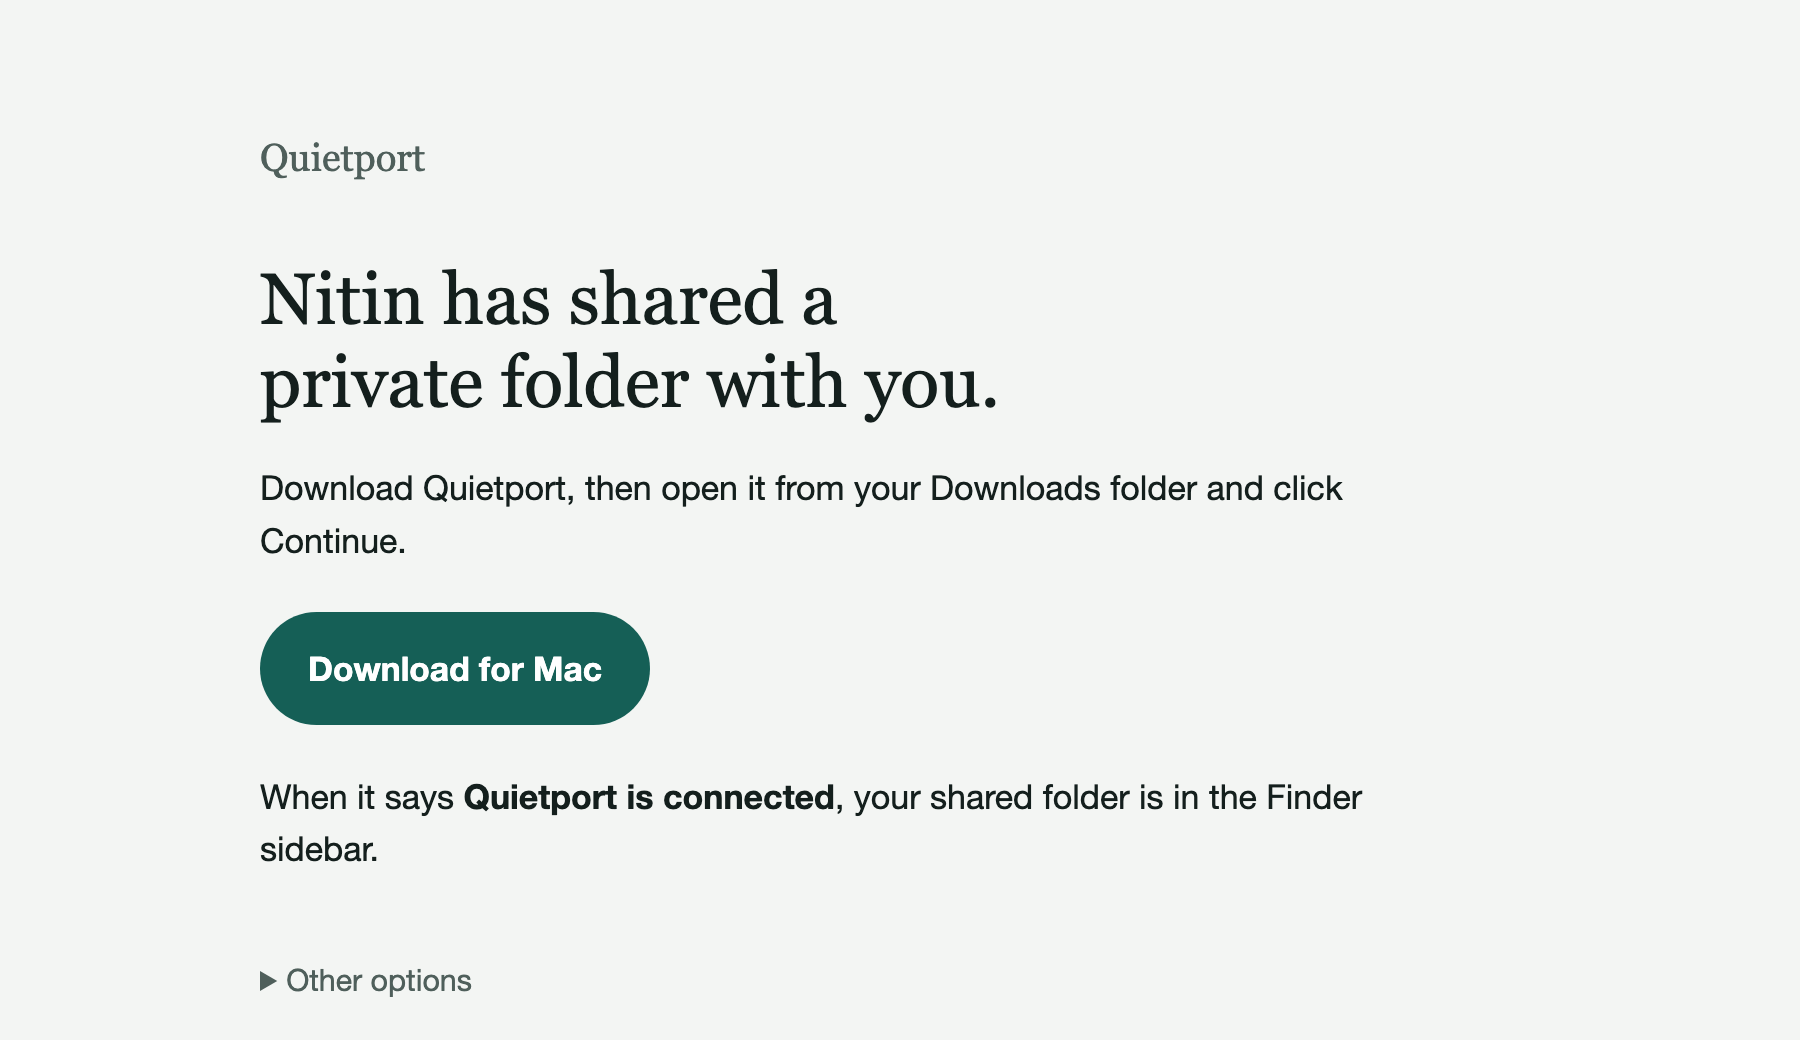
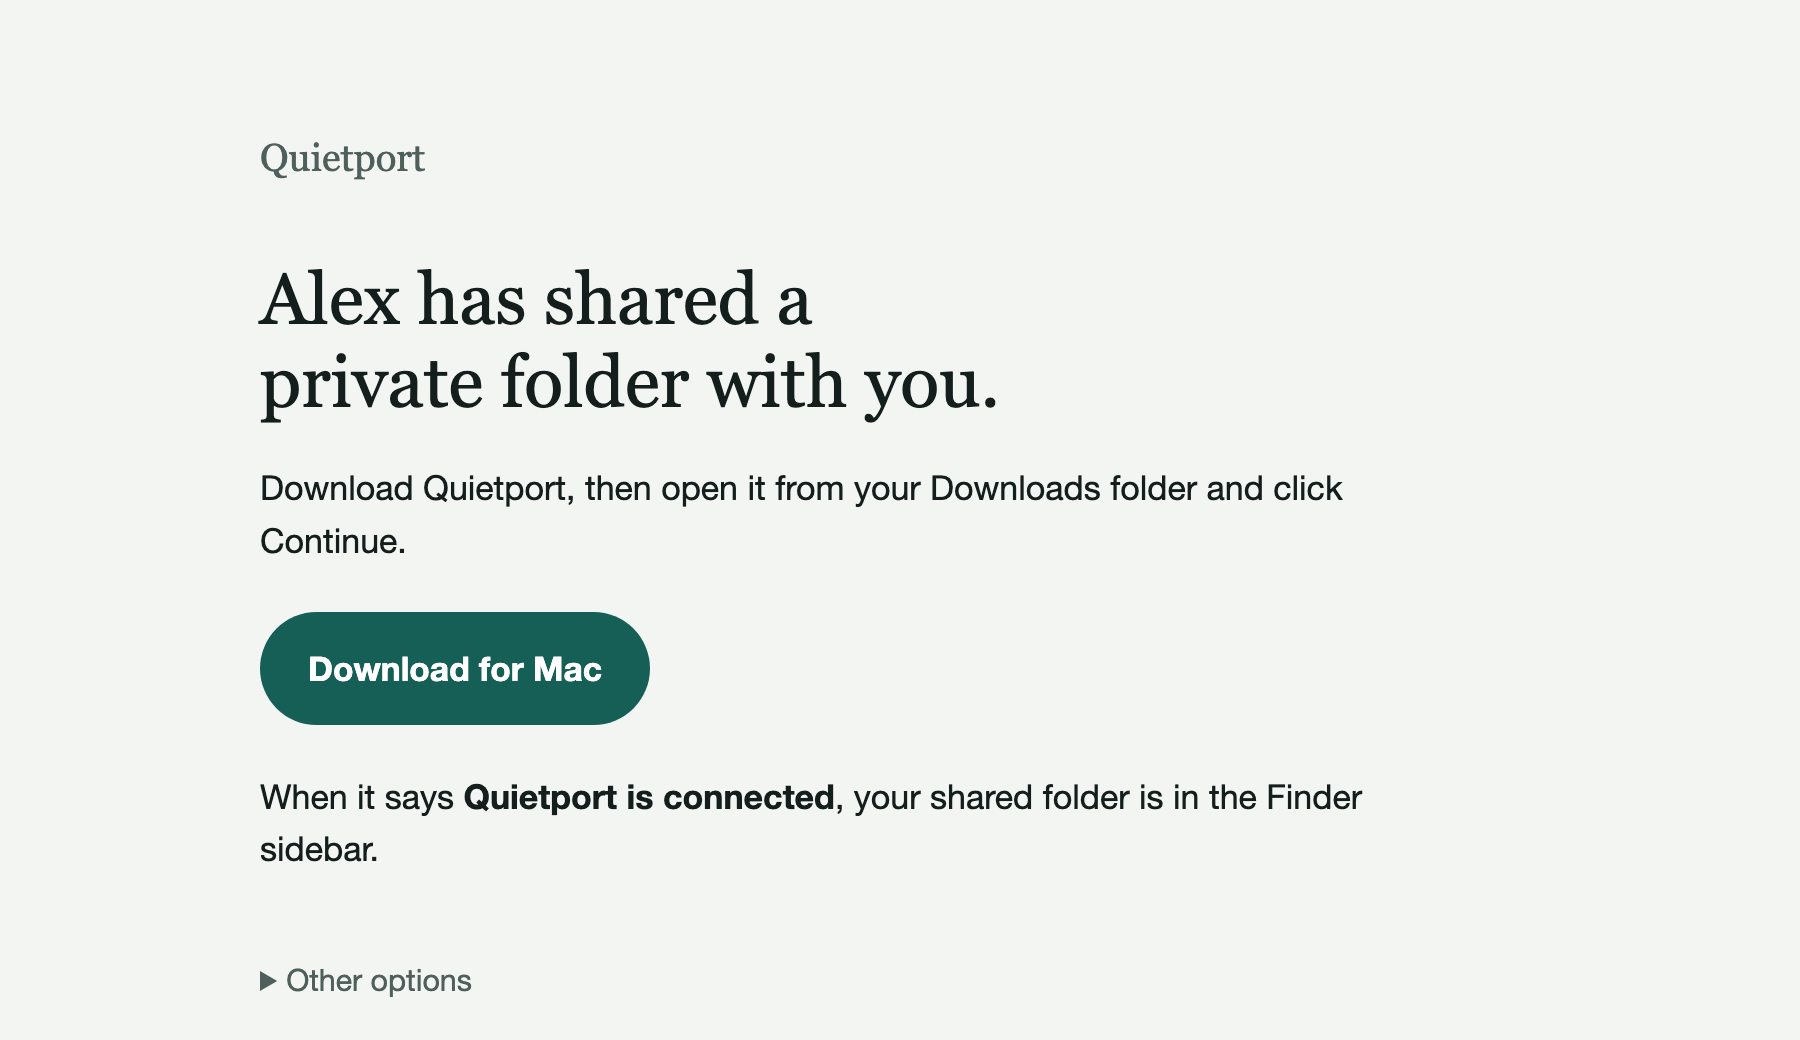
site: generic operator name in the example, link bar above the screenshot, dialog timing, pill placement
Claude-Session: https://claude.ai/code/session_012djiBqZ5WtPw4SnFMJU3a2

Changed region(s): [[0.1244, 0.2462, 0.4667, 0.3385]]

diff --git a/cmd/qp-hub/web/site/index.html b/cmd/qp-hub/web/site/index.html
@@ -61,9 +61,9 @@ p{margin:0 0 1rem}
 .step p{color:var(--ink-2);max-width:26rem}
 .shot{background:var(--card);border-radius:20px;box-shadow:var(--shadow);overflow:hidden;position:relative}
 .shot img{display:block;width:100%;height:auto}
-.chip{position:absolute;right:4%;top:6%;background:var(--ink);color:var(--bg);font-family:var(--mono);font-size:.78rem;padding:.55rem .8rem;border-radius:10px;box-shadow:var(--shadow);animation:float 4s ease-in-out infinite;max-width:70%;overflow:hidden;text-overflow:ellipsis;white-space:nowrap}
+.chip{display:block;background:var(--ink);color:var(--bg);font-family:var(--mono);font-size:.78rem;padding:.65rem .9rem;overflow:hidden;text-overflow:ellipsis;white-space:nowrap;animation:pulse 4s ease-in-out infinite}
 .chip b{color:var(--accent);font-weight:500}
-@keyframes float{0%,100%{transform:translateY(0)}50%{transform:translateY(-6px)}}
+@keyframes pulse{0%,100%{opacity:1}50%{opacity:.72}}
 
 /* installer dialog animation: ask (0-35%) -> progress (35-60%) -> connected (60-100%) on a 9s loop */
 .dlg-stage{position:relative;background:linear-gradient(160deg,#dfe6f3,#eef1f7);border-radius:20px;box-shadow:var(--shadow);min-height:15rem;display:flex;align-items:center;justify-content:center;padding:1.5rem;overflow:hidden}
@@ -81,19 +81,19 @@ p{margin:0 0 1rem}
 .dlg.d2{animation:d2 9s ease-in-out infinite}
 .dlg-prog{position:absolute;bottom:2rem;width:min(16rem,70%);height:6px;border-radius:3px;background:rgba(15,22,38,.12);overflow:hidden;opacity:0;animation:progShow 9s linear infinite}
 .dlg-prog i{display:block;height:100%;width:0;background:var(--accent);animation:progFill 9s linear infinite}
-@keyframes d1{0%{opacity:0;transform:translateY(8px) scale(.98)}5%,30%{opacity:1;transform:none}36%,100%{opacity:0;transform:translateY(-6px) scale(.98)}}
-@keyframes d2{0%,60%{opacity:0;transform:translateY(8px) scale(.98)}66%,94%{opacity:1;transform:none}100%{opacity:0}}
-@keyframes progShow{0%,36%{opacity:0}38%,58%{opacity:1}60%,100%{opacity:0}}
-@keyframes progFill{0%,36%{width:0}58%{width:100%}100%{width:100%}}
+@keyframes d1{0%,4%{opacity:0;transform:translateY(8px) scale(.98)}9%,32%{opacity:1;transform:none}37%,100%{opacity:0;transform:translateY(-6px) scale(.98)}}
+@keyframes d2{0%,62%{opacity:0;transform:translateY(8px) scale(.98)}67%,92%{opacity:1;transform:none}96%,100%{opacity:0;transform:translateY(-6px) scale(.98)}}
+@keyframes progShow{0%,38%{opacity:0}41%,58%{opacity:1}61%,100%{opacity:0}}
+@keyframes progFill{0%,40%{width:0}58%{width:100%}100%{width:100%}}
 
 /* finder */
 .finder{background:#fff;border-radius:20px;box-shadow:var(--shadow);overflow:hidden}
 .finder img{display:block;width:100%;height:auto}
-.finder .pane{position:relative;height:13rem;background:#fff;padding:1.4rem 1.6rem;display:flex;gap:2rem;align-items:flex-start}
+.finder .pane{position:relative;height:14rem;background:#fff;padding:1.4rem 1.6rem 3.6rem;display:flex;gap:2rem;align-items:flex-start;flex-wrap:wrap}
 .folder{width:5.4rem;text-align:center;font-size:.85rem;color:#1d1d1f;opacity:0;transform:translateY(10px) scale(.9);animation:pop .6s cubic-bezier(.2,.8,.2,1) forwards}
 .folder svg{width:4.2rem;height:auto;display:block;margin:0 auto .35rem}
 .folder:nth-child(1){animation-delay:.6s}.folder:nth-child(2){animation-delay:1.5s}
-.finder .pin{position:absolute;right:1.4rem;top:1.3rem;background:var(--ok-soft);color:var(--ok);font-size:.8rem;font-weight:600;padding:.45rem .7rem;border-radius:999px;opacity:0;animation:appear .5s ease 2.4s forwards}
+.finder .pin{position:absolute;left:1.6rem;bottom:1.2rem;background:var(--ok-soft);color:var(--ok);font-size:.8rem;font-weight:600;padding:.45rem .7rem;border-radius:999px;opacity:0;animation:appear .5s ease 2.4s forwards}
 @keyframes pop{to{opacity:1;transform:none}}
 
 /* circles explainer */
@@ -223,7 +223,7 @@ footer{padding:0 0 3rem;font-size:.85rem;color:var(--ink-2)}
 
   <div class="step">
     <div><div class="n">Step 1</div><h3>Someone sends you a link.</h3><p>Every invite is made for 1 person and carries only the folders meant for them. It works once and expires after 24 hours. The page has 1 button: Download.</p></div>
-    <div class="shot"><img src="/assets/invite-page.png" width="1800" height="1040" alt="The invite page: a headline saying a private folder has been shared with you, and 1 line to paste"><div class="chip">https://quietport.app/j/<b>fbco4tqe5qh5wwfibe2oiuypfu</b></div></div>
+    <div class="shot"><div class="chip">https://quietport.app/j/<b>fbco4tqe5qh5wwfibe2oiuypfu</b></div><img src="/assets/invite-page.png" width="1800" height="1040" alt="The invite page: a headline saying a private folder has been shared with you, and a Download button"></div>
   </div>
 
   <div class="step">
